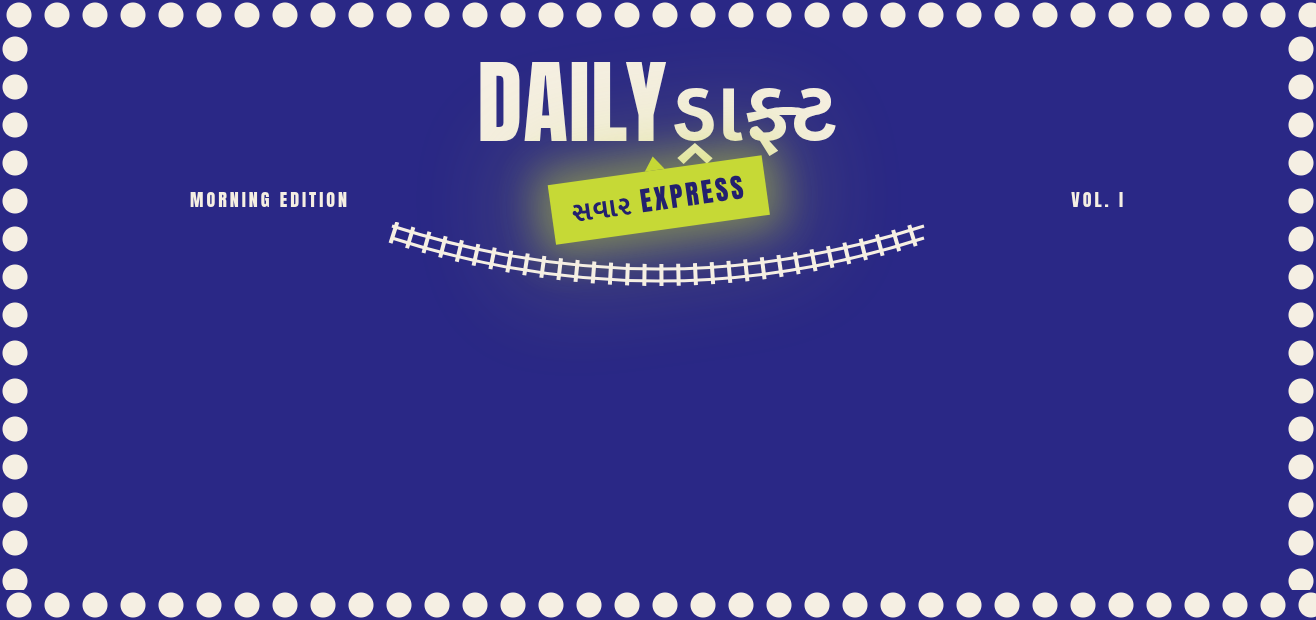
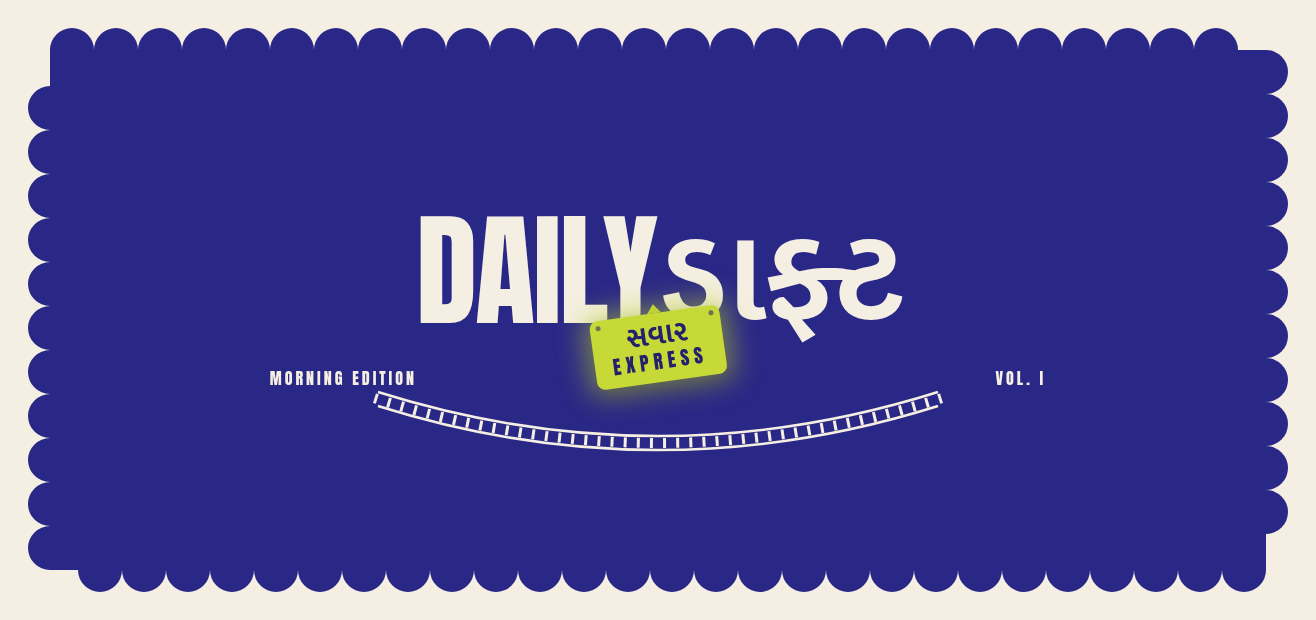
Stamp face v3: faithful cover composition (scalloped rim, fused lockup, lime tag, track, negative space); dynamic text subordinate under track

diff --git a/widget-face-stamp.html b/widget-face-stamp.html
@@ -1,48 +1,36 @@
 <!DOCTYPE html>
-<!-- Source art for the Home Screen widget background. Render at exactly
-     1316x620 (= medium widget 658x310pt @2x) and screenshot to
-     img/widget-bg-stamp.png. The bottom zone stays plain indigo: the
-     ListWidget draws the kind chip, headline and footer there in
-     system font over this artwork. -->
 <html><head><meta charset="utf-8">
 <link href="https://fonts.googleapis.com/css2?family=Anton&family=Mukta+Vaani:wght@500;700&display=swap" rel="stylesheet">
 <style>
 *{margin:0;padding:0;box-sizing:border-box}
-html,body{width:1316px;height:620px;overflow:hidden;background:#2A2886}
-.face{position:relative;width:1316px;height:620px;background:#2A2886}
-/* cream stamp perforation on all four sides */
-.perf-h{position:absolute;left:0;right:0;height:30px;background-image:radial-gradient(circle 12px at 19px 15px, #F5EFE3 12px, transparent 13px);background-size:38px 30px;background-repeat:repeat-x}
-.perf-h.top{top:0}.perf-h.bot{bottom:0}
-.perf-v{position:absolute;top:30px;bottom:30px;width:30px;background-image:radial-gradient(circle 12px at 15px 19px, #F5EFE3 12px, transparent 13px);background-size:30px 38px;background-repeat:repeat-y}
-.perf-v.left{left:0}.perf-v.right{right:0}
-/* fused condensed lockup, mirroring SPEC+Devanagari+06 : Latin + Gujarati */
-.lockup{position:absolute;top:56px;left:0;right:0;text-align:center;color:#F5EFE3;font-family:"Anton",sans-serif;font-size:92px;line-height:1;letter-spacing:1px}
-.lockup .guj{font-family:"Mukta Vaani",sans-serif;font-weight:700;font-size:86px;color:#F5EFE3;padding:0 2px}
-/* lime tilted luggage tag hanging under the lockup centre */
-.tagwrap{position:absolute;top:156px;left:50%;transform:translateX(-50%) rotate(-8deg);text-align:center}
-.tagwrap .tri{width:0;height:0;margin:0 auto;border-left:10px solid transparent;border-right:10px solid transparent;border-bottom:14px solid #C6D936}
-.tag{background:#C6D936;color:#23206E;font-family:"Anton",sans-serif;font-size:27px;letter-spacing:3px;padding:8px 20px 6px;box-shadow:0 0 40px 12px rgba(198,217,54,.45),0 0 100px 40px rgba(198,217,54,.2)}
-.tag .guj{font-family:"Mukta Vaani",sans-serif;font-weight:700;letter-spacing:1px}
-/* small condensed flanks at tag level, like DESTINATION: / NIFT PATNA */
-.flank{position:absolute;top:186px;font-family:"Anton",sans-serif;font-size:18px;letter-spacing:3px;color:#F5EFE3}
-.flank.l{left:190px}
-.flank.r{right:190px}
-/* curved railway-track motif under the tag */
-.track{position:absolute;top:222px;left:50%;transform:translateX(-50%)}
+html,body{width:1316px;height:620px;overflow:hidden;background:#F5EFE3}
+.face{position:relative;width:1316px;height:620px;background:#F5EFE3}
+.field{position:absolute;inset:0}
+.cluster{position:absolute;left:50%;top:45%;transform:translate(-50%,-50%);text-align:center}
+.lockup{white-space:nowrap;color:#F5EFE3;line-height:1}
+.lockup .lat{font-family:"Anton",sans-serif;font-size:124px;letter-spacing:-2px}
+.lockup .guj{font-family:"Mukta Vaani",sans-serif;font-weight:700;font-size:130px;letter-spacing:-3px;margin-left:0;position:relative;top:-4px}
+.tagwrap{position:absolute;left:50%;top:68%;transform:translateX(-50%) rotate(-8deg);z-index:3}
+.tagwrap .tri{width:0;height:0;margin:0 auto;border-left:7px solid transparent;border-right:7px solid transparent;border-bottom:9px solid #C6D936}
+.tag{position:relative;background:#C6D936;color:#23206E;border-radius:8px;padding:7px 18px 9px;text-align:center;box-shadow:0 0 26px 8px rgba(198,217,54,.5),0 8px 18px rgba(20,18,70,.45)}
+.tag .g1{font-family:"Mukta Vaani",sans-serif;font-weight:700;font-size:29px;line-height:1.05}
+.tag .g2{font-family:"Anton",sans-serif;font-size:19px;letter-spacing:5px;line-height:1.2}
+.tag::before,.tag::after{content:"";position:absolute;top:5px;width:5px;height:5px;border-radius:50%;background:rgba(35,32,110,.55)}
+.tag::before{left:6px}.tag::after{right:6px}
+.flank{position:absolute;top:59%;font-family:"Anton",sans-serif;font-size:16px;letter-spacing:3px;color:#F5EFE3}
+.flank.l{left:20.5%}
+.flank.r{right:20.5%}
+.track{position:absolute;left:0;top:0;z-index:1}
 </style></head>
 <body>
 <div class="face">
-  <div class="perf-h top"></div><div class="perf-h bot"></div>
-  <div class="perf-v left"></div><div class="perf-v right"></div>
-  <div class="lockup">DAILY<span class="guj">ડ્રાફ્ટ</span></div>
-  <div class="tagwrap"><div class="tri"></div><div class="tag"><span class="guj">સવાર</span> EXPRESS</div></div>
+  <svg class="field" width="1316" height="620"><path d="M 50 50 a 16 16 0 0 1 44 0 a 16 16 0 0 1 44 0 a 16 16 0 0 1 44 0 a 16 16 0 0 1 44 0 a 16 16 0 0 1 44 0 a 16 16 0 0 1 44 0 a 16 16 0 0 1 44 0 a 16 16 0 0 1 44 0 a 16 16 0 0 1 44 0 a 16 16 0 0 1 44 0 a 16 16 0 0 1 44 0 a 16 16 0 0 1 44 0 a 16 16 0 0 1 44 0 a 16 16 0 0 1 44 0 a 16 16 0 0 1 44 0 a 16 16 0 0 1 44 0 a 16 16 0 0 1 44 0 a 16 16 0 0 1 44 0 a 16 16 0 0 1 44 0 a 16 16 0 0 1 44 0 a 16 16 0 0 1 44 0 a 16 16 0 0 1 44 0 a 16 16 0 0 1 44 0 a 16 16 0 0 1 44 0 a 16 16 0 0 1 44 0 a 16 16 0 0 1 44 0 a 16 16 0 0 1 44 0 L 1266 50 a 16 16 0 0 1 0 44 a 16 16 0 0 1 0 44 a 16 16 0 0 1 0 44 a 16 16 0 0 1 0 44 a 16 16 0 0 1 0 44 a 16 16 0 0 1 0 44 a 16 16 0 0 1 0 44 a 16 16 0 0 1 0 44 a 16 16 0 0 1 0 44 a 16 16 0 0 1 0 44 a 16 16 0 0 1 0 44 L 1266 570 a 16 16 0 0 1 -44 0 a 16 16 0 0 1 -44 0 a 16 16 0 0 1 -44 0 a 16 16 0 0 1 -44 0 a 16 16 0 0 1 -44 0 a 16 16 0 0 1 -44 0 a 16 16 0 0 1 -44 0 a 16 16 0 0 1 -44 0 a 16 16 0 0 1 -44 0 a 16 16 0 0 1 -44 0 a 16 16 0 0 1 -44 0 a 16 16 0 0 1 -44 0 a 16 16 0 0 1 -44 0 a 16 16 0 0 1 -44 0 a 16 16 0 0 1 -44 0 a 16 16 0 0 1 -44 0 a 16 16 0 0 1 -44 0 a 16 16 0 0 1 -44 0 a 16 16 0 0 1 -44 0 a 16 16 0 0 1 -44 0 a 16 16 0 0 1 -44 0 a 16 16 0 0 1 -44 0 a 16 16 0 0 1 -44 0 a 16 16 0 0 1 -44 0 a 16 16 0 0 1 -44 0 a 16 16 0 0 1 -44 0 a 16 16 0 0 1 -44 0 L 50 570 a 16 16 0 0 1 0 -44 a 16 16 0 0 1 0 -44 a 16 16 0 0 1 0 -44 a 16 16 0 0 1 0 -44 a 16 16 0 0 1 0 -44 a 16 16 0 0 1 0 -44 a 16 16 0 0 1 0 -44 a 16 16 0 0 1 0 -44 a 16 16 0 0 1 0 -44 a 16 16 0 0 1 0 -44 a 16 16 0 0 1 0 -44 Z" fill="#2A2886"/></svg>
+  <div class="cluster">
+    <div class="lockup"><span class="lat">DAILY</span><span class="guj">ડ્રાફ્ટ</span></div>
+    <div class="tagwrap"><div class="tri"></div><div class="tag"><div class="g1">સવાર</div><div class="g2">EXPRESS</div></div></div>
+  </div>
   <div class="flank l">MORNING EDITION</div>
   <div class="flank r">VOL. I</div>
-  <svg class="track" width="560" height="84" viewBox="0 0 560 84">
-    <path d="M 14 10 Q 280 96 546 10" stroke="#F5EFE3" stroke-width="22" fill="none" stroke-dasharray="4 13"/>
-    <path d="M 14 4 Q 280 90 546 4" stroke="#F5EFE3" stroke-width="3" fill="none"/>
-    <path d="M 14 16 Q 280 102 546 16" stroke="#F5EFE3" stroke-width="3" fill="none"/>
-  </svg>
-  <!-- y ~310..620: plain indigo, reserved for ListWidget text -->
+  <svg class="track" width="1316" height="620"><path d='M 378.0 392 Q 658 480 938.0 392' stroke='#F5EFE3' stroke-width='2.5' fill='none'/><path d='M 378.0 406 Q 658 494 938.0 406' stroke='#F5EFE3' stroke-width='2.5' fill='none'/><line x1='377.4' y1='393.9' x2='374.4' y2='403.4' stroke='#F5EFE3' stroke-width='3'/><line x1='390.4' y1='397.9' x2='387.6' y2='407.5' stroke='#F5EFE3' stroke-width='3'/><line x1='403.5' y1='401.7' x2='400.8' y2='411.3' stroke='#F5EFE3' stroke-width='3'/><line x1='416.5' y1='405.4' x2='413.9' y2='415.0' stroke='#F5EFE3' stroke-width='3'/><line x1='429.6' y1='408.8' x2='427.1' y2='418.5' stroke='#F5EFE3' stroke-width='3'/><line x1='442.6' y1='412.0' x2='440.3' y2='421.8' stroke='#F5EFE3' stroke-width='3'/><line x1='455.7' y1='415.1' x2='453.5' y2='424.8' stroke='#F5EFE3' stroke-width='3'/><line x1='468.7' y1='417.9' x2='466.7' y2='427.7' stroke='#F5EFE3' stroke-width='3'/><line x1='481.8' y1='420.6' x2='479.9' y2='430.4' stroke='#F5EFE3' stroke-width='3'/><line x1='494.8' y1='423.1' x2='493.1' y2='432.9' stroke='#F5EFE3' stroke-width='3'/><line x1='507.9' y1='425.4' x2='506.2' y2='435.2' stroke='#F5EFE3' stroke-width='3'/><line x1='521.0' y1='427.5' x2='519.4' y2='437.4' stroke='#F5EFE3' stroke-width='3'/><line x1='534.0' y1='429.4' x2='532.6' y2='439.3' stroke='#F5EFE3' stroke-width='3'/><line x1='547.1' y1='431.1' x2='545.8' y2='441.0' stroke='#F5EFE3' stroke-width='3'/><line x1='560.1' y1='432.6' x2='559.0' y2='442.6' stroke='#F5EFE3' stroke-width='3'/><line x1='573.2' y1='434.0' x2='572.2' y2='443.9' stroke='#F5EFE3' stroke-width='3'/><line x1='586.2' y1='435.1' x2='585.4' y2='445.1' stroke='#F5EFE3' stroke-width='3'/><line x1='599.3' y1='436.1' x2='598.6' y2='446.0' stroke='#F5EFE3' stroke-width='3'/><line x1='612.3' y1='436.8' x2='611.8' y2='446.8' stroke='#F5EFE3' stroke-width='3'/><line x1='625.4' y1='437.4' x2='625.0' y2='447.4' stroke='#F5EFE3' stroke-width='3'/><line x1='638.4' y1='437.8' x2='638.2' y2='447.8' stroke='#F5EFE3' stroke-width='3'/><line x1='651.5' y1='438.0' x2='651.4' y2='448.0' stroke='#F5EFE3' stroke-width='3'/><line x1='664.5' y1='438.0' x2='664.6' y2='448.0' stroke='#F5EFE3' stroke-width='3'/><line x1='677.6' y1='437.8' x2='677.8' y2='447.8' stroke='#F5EFE3' stroke-width='3'/><line x1='690.6' y1='437.4' x2='691.0' y2='447.4' stroke='#F5EFE3' stroke-width='3'/><line x1='703.7' y1='436.8' x2='704.2' y2='446.8' stroke='#F5EFE3' stroke-width='3'/><line x1='716.7' y1='436.1' x2='717.4' y2='446.0' stroke='#F5EFE3' stroke-width='3'/><line x1='729.8' y1='435.1' x2='730.6' y2='445.1' stroke='#F5EFE3' stroke-width='3'/><line x1='742.8' y1='434.0' x2='743.8' y2='443.9' stroke='#F5EFE3' stroke-width='3'/><line x1='755.9' y1='432.6' x2='757.0' y2='442.6' stroke='#F5EFE3' stroke-width='3'/><line x1='768.9' y1='431.1' x2='770.2' y2='441.0' stroke='#F5EFE3' stroke-width='3'/><line x1='782.0' y1='429.4' x2='783.4' y2='439.3' stroke='#F5EFE3' stroke-width='3'/><line x1='795.0' y1='427.5' x2='796.6' y2='437.4' stroke='#F5EFE3' stroke-width='3'/><line x1='808.1' y1='425.4' x2='809.8' y2='435.2' stroke='#F5EFE3' stroke-width='3'/><line x1='821.2' y1='423.1' x2='822.9' y2='432.9' stroke='#F5EFE3' stroke-width='3'/><line x1='834.2' y1='420.6' x2='836.1' y2='430.4' stroke='#F5EFE3' stroke-width='3'/><line x1='847.3' y1='417.9' x2='849.3' y2='427.7' stroke='#F5EFE3' stroke-width='3'/><line x1='860.3' y1='415.1' x2='862.5' y2='424.8' stroke='#F5EFE3' stroke-width='3'/><line x1='873.4' y1='412.0' x2='875.7' y2='421.8' stroke='#F5EFE3' stroke-width='3'/><line x1='886.4' y1='408.8' x2='888.9' y2='418.5' stroke='#F5EFE3' stroke-width='3'/><line x1='899.5' y1='405.4' x2='902.1' y2='415.0' stroke='#F5EFE3' stroke-width='3'/><line x1='912.5' y1='401.7' x2='915.2' y2='411.3' stroke='#F5EFE3' stroke-width='3'/><line x1='925.6' y1='397.9' x2='928.4' y2='407.5' stroke='#F5EFE3' stroke-width='3'/><line x1='938.6' y1='393.9' x2='941.6' y2='403.4' stroke='#F5EFE3' stroke-width='3'/></svg>
 </div>
 </body></html>

diff --git a/widget-preview-stamp.html b/widget-preview-stamp.html
@@ -9,35 +9,34 @@
   .label{font:600 10px -apple-system;letter-spacing:.22em;color:#C6D936;text-transform:uppercase;align-self:flex-start;margin-bottom:8px}
   .section{display:flex;flex-direction:column;width:329px;max-width:100%}
   .note{font:400 11px/1.65 -apple-system;color:#F5EFE3aa;margin-top:10px}
-  /* the real medium-widget size: 329x155pt. The image below is the ACTUAL
-     background asset the script loads; the text over it is what iOS draws
-     in system font - this is the widget, not a stylised mock. */
+  /* medium-widget size 329x155pt. The image is the ACTUAL background asset the
+     script loads; the text over it is a browser approximation of what iOS draws
+     in system font on top. */
   .widget{position:relative;width:329px;height:155px;border-radius:22px;overflow:hidden;box-shadow:0 10px 30px rgba(0,0,0,.4)}
   .widget img.bg{position:absolute;inset:0;width:100%;height:100%;object-fit:cover}
-  .w-text{position:absolute;left:24px;right:24px;top:88px;bottom:10px;display:flex;flex-direction:column;justify-content:flex-end}
-  .w-head{font:600 15px/1.25 -apple-system;color:#F5EFE3;display:-webkit-box;-webkit-line-clamp:2;-webkit-box-orient:vertical;overflow:hidden}
-  .w-foot{display:flex;justify-content:space-between;font:400 9px -apple-system;color:#F5EFE3;margin-top:5px}
-  .w-foot b{font-weight:700;color:#C6D936}
+  .w-text{position:absolute;left:20px;right:20px;top:119px;bottom:8px;text-align:center}
+  .w-head{font:600 12px -apple-system;color:#F5EFE3;white-space:nowrap;overflow:hidden;text-overflow:ellipsis}
+  .w-foot{font:400 9px -apple-system;color:#F5EFE3;margin-top:3px}
 </style>
 </head>
 <body>
 
 <div class="section">
-  <div class="label">Home Screen widget - medium, actual size</div>
+  <div class="label">Home Screen widget - medium, actual size (browser approximation)</div>
   <div class="widget">
     <img class="bg" src="img/widget-bg-stamp.png" alt="">
     <div class="w-text">
       <div class="w-head">Long prompts rot</div>
-      <div class="w-foot"><span>Thursday, 29 October &nbsp;&middot;&nbsp; &#8470; 12</span><b>Read &amp; tick &rarr;</b></div>
+      <div class="w-foot">Thursday, 29 October &nbsp;&middot;&nbsp; &#8470; 12</div>
     </div>
   </div>
-  <p class="note">This is the widget at its real size. The artwork (stamp border, DAILY ડ્રાફ્ટ lockup, સવાર EXPRESS tag, track) is a fixed image the script loads as the background, so the Gujarati lettering is pixel-exact - Scriptable cannot load custom fonts, so this is how the lettering stays faithful. The story headline and footer are drawn by iOS in the system font and change with each edition.</p>
+  <p class="note">Browser approximation of the widget at its real size. The artwork (stamp border, DAILY ડ્રાફ્ટ lockup, સવાર EXPRESS tag, railway track) is a fixed image the script loads as the background, so the Gujarati lettering stays exactly as drawn - Scriptable cannot load custom fonts. The story headline and date are an adaptation: iOS draws them in the system font in the empty strip under the track, changing with each edition. Sample text shown is from issue &#8470; 12.</p>
 </div>
 
 <div class="section">
   <div class="label">The background artwork alone</div>
   <img src="img/widget-bg-stamp.png" style="width:100%;border-radius:10px" alt="">
-  <p class="note">Composition from your reference cover: perforated stamp edge, fused condensed lockup, tilted lime tag on a notch, curved track - the rest is left empty on purpose.</p>
+  <p class="note">Composition from your reference cover: perforated stamp edge, fused condensed Latin+Gujarati lockup, tilted lime tag overlapping the lettering base, thin curved track cupping the cluster - the rest left empty on purpose. The reference is a tall poster; the widget is wide, so the negative space spreads sideways instead of above and below.</p>
 </div>
 
 </body>

diff --git a/widget-stamp.js b/widget-stamp.js
@@ -2,7 +2,7 @@
 // Home-screen face = raster artwork (img/widget-bg-stamp.png) adapted from
 // Rudy's exact Behance cover reference: stamp border, fused Latin+Gujarati
 // lockup, lime Express tag, railway-track arc, generous negative space.
-// Reader below is the approved live reader, unchanged.
+// Reader below is the existing live reader, unchanged.
 // Install: copy this whole file into a new script in the Scriptable app,
 // name it "The Daily Draft", then long-press home screen > + > Scriptable >
 // Medium > long-press the placed widget > Edit Widget > pick this script,
@@ -53,62 +53,47 @@ function markRead(issue, id) {
 }
 
 // ---------- home-screen widget ----------
+// The artwork (img/widget-bg-stamp.png) carries all branding: scalloped stamp
+// border, fused DAILY + Gujarati lockup, lime tag, railway-track arc, negative
+// space. Scriptable cannot load custom fonts, so that lettering lives in the
+// raster. Dynamic text is an adaptation: one subordinate line of story text
+// plus the date, in the system font, in the empty strip under the track.
 async function buildWidget(issue, state) {
   const w = new ListWidget();
   const INDIGO = new Color("#2A2886"), LIME = new Color("#C6D936"), CREAM = new Color("#F5EFE3");
-  // the artwork IS the widget: stamp border + fused DAILY ડ્રાફ્ટ lockup + tag + track
   try {
-    w.backgroundImage = await new Request(PAGE + "img/widget-bg-stamp.png?t=" + Date.now()).loadImage();
+    w.backgroundImage = await new Request(PAGE + "img/widget-bg-stamp.png?v=3").loadImage();
   } catch (e0) {
     w.backgroundColor = INDIGO;
   }
-  w.setPadding(88, 24, 10, 24);
+  w.setPadding(119, 20, 8, 20);
   w.refreshAfterDate = new Date(Date.now() + 5 * 60 * 1000);
 
   const d = new Date(issue.date + "T12:00:00");
   const dayStr = d.toLocaleDateString("en-GB", { weekday: "long", day: "numeric", month: "long" });
   const lead = firstUnread(issue, state);
 
-  w.addSpacer();
-
   if (!lead) {
     const stamp = w.addText("ALL READ");
-    stamp.font = Font.boldSystemFont(15);
+    stamp.font = Font.boldSystemFont(12);
     stamp.textColor = LIME;
-    w.addSpacer(4);
-    const foot = w.addStack();
-    foot.layoutHorizontally();
-    const dt = foot.addText(dayStr + "  ·  № " + issue.number);
-    dt.font = Font.systemFont(9);
-    dt.textColor = CREAM;
-    foot.addSpacer();
-    const open = foot.addText("Archive →");
-    open.font = Font.boldSystemFont(9);
-    open.textColor = LIME;
-    w.url = PAGE;
-    return w;
+    stamp.centerAlignText();
+  } else {
+    const head = w.addText(lead.headline);
+    head.font = Font.semiboldSystemFont(12);
+    head.textColor = CREAM;
+    head.centerAlignText();
+    head.lineLimit = 1;
+    head.minimumScaleFactor = 0.8;
   }
 
-  // headline only - the artwork carries the branding; keep the negative space
-  const head = w.addText(lead.headline);
-  head.font = Font.semiboldSystemFont(15);
-  head.textColor = CREAM;
-  head.lineLimit = 2;
-  head.minimumScaleFactor = 0.85;
+  w.addSpacer(3);
 
-  w.addSpacer(5);
-
-  // footer row
-  const foot = w.addStack();
-  foot.layoutHorizontally();
-  foot.centerAlignContent();
-  const dt = foot.addText(dayStr + "  ·  № " + issue.number);
+  const dt = w.addText(dayStr + "  \u00b7  \u2116 " + issue.number);
   dt.font = Font.systemFont(9);
   dt.textColor = CREAM;
-  foot.addSpacer();
-  const open = foot.addText("Read & tick →");
-  open.font = Font.boldSystemFont(9);
-  open.textColor = LIME;
+  dt.centerAlignText();
+  w.url = PAGE;
   return w;
 }
 
